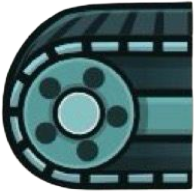
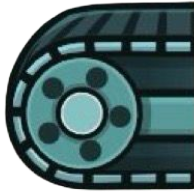
update

diff --git a/phaser-game/src/scenes/MainScene.js b/phaser-game/src/scenes/MainScene.js
@@ -28,8 +28,9 @@ export default class MainScene extends Phaser.Scene {
   preload() {
     // Conveyor tiles
     this.load.image("beltLeft", "/assets/conveyor/left-CB.png");
-    this.load.image("beltMid", "/assets/conveyor/middle-CB.png");
+    this.load.image("beltMid", "/assets/conveyor/middle-CB-repeat.png");
     this.load.image("beltRight", "/assets/conveyor/right-CB.png");
+    this.load.image("wheel", "/assets/conveyor/wheel.png");
   }
 
   // ------------------------------------------------------------
@@ -120,7 +121,31 @@ export default class MainScene extends Phaser.Scene {
     this.conveyor.container.setScale(0.4);
 
     // --- Factory position (right end of belt) ---
+
+    // Belt start and end X positions
+    const beltStartX = this.beltStartX;
     const beltEndX = this.beltStartX + this.conveyor.width;
+
+    const wheelY = this.beltY + 7;
+
+    // Wheels
+    this.leftWheel = this.add.image(beltStartX + 32, wheelY, "wheel").setScale(0.55);
+    this.rightWheel = this.add.image(this.beltY*2 - 72, wheelY, "wheel").setScale(0.55);
+
+    // --- Middle wheels ---
+    // Place a wheel every 2 middle tiles
+    this.middleWheels = [];
+
+    for (let i = 0; i < this.conveyor.mids.length; i += 1) {
+      const midTile = this.conveyor.mids[i];
+
+      // midTile.x is inside container, so convert to world position:
+      const worldX = this.beltStartX + (midTile.x - 120) + this.conveyor.tileW * 0.2;
+
+      const wheel = this.add.image(worldX, wheelY, "wheel").setScale(0.55);
+      this.middleWheels.push(wheel);
+    }
+
     // this.factoryX = beltEndX + 60;
     this.factoryX = Phaser.Math.Clamp(
       beltEndX + 20, // gap = 20px
@@ -328,9 +353,19 @@ export default class MainScene extends Phaser.Scene {
   update(time, delta) {
     const dt = delta / 1000;
 
+    // Rotate wheels (speed linked to beltSpeed)
+    const rotationSpeed = this.beltSpeed * dt * 0.01;
+
+    this.leftWheel.rotation -= rotationSpeed;
+    this.rightWheel.rotation -= rotationSpeed;
+
     // --- Animate belt middle tiles (right-to-left) ---
     for (const mid of this.conveyor.mids) {
       mid.tilePositionX -= this.beltSpeed * dt * 0.6;
+    }
+
+    for (const w of this.middleWheels) {
+      w.rotation -= rotationSpeed;
     }
 
     // --- Worker movement (left/right) ---
